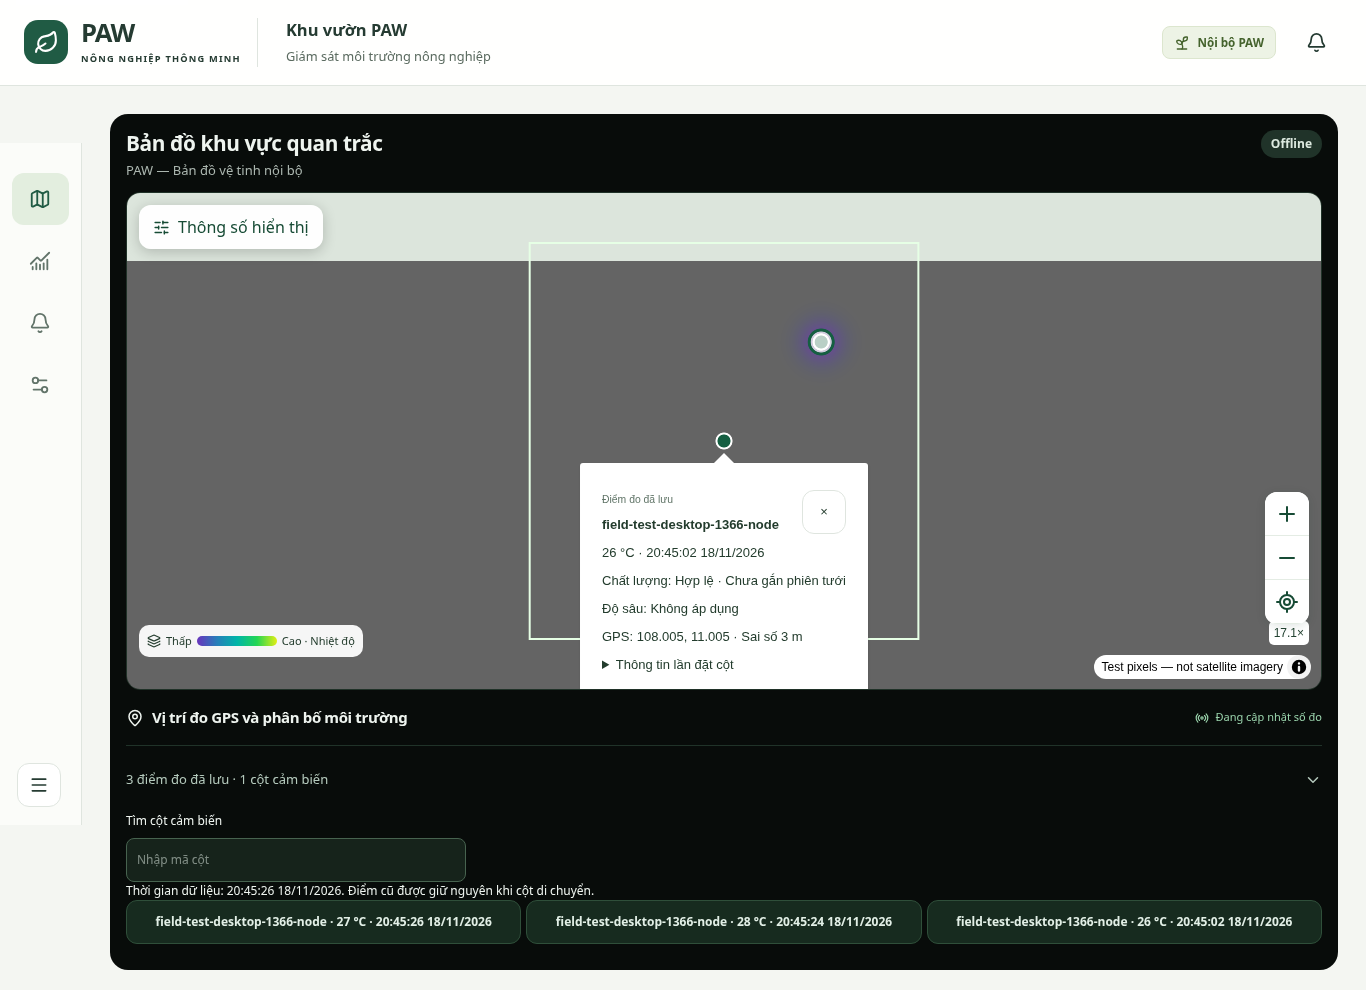
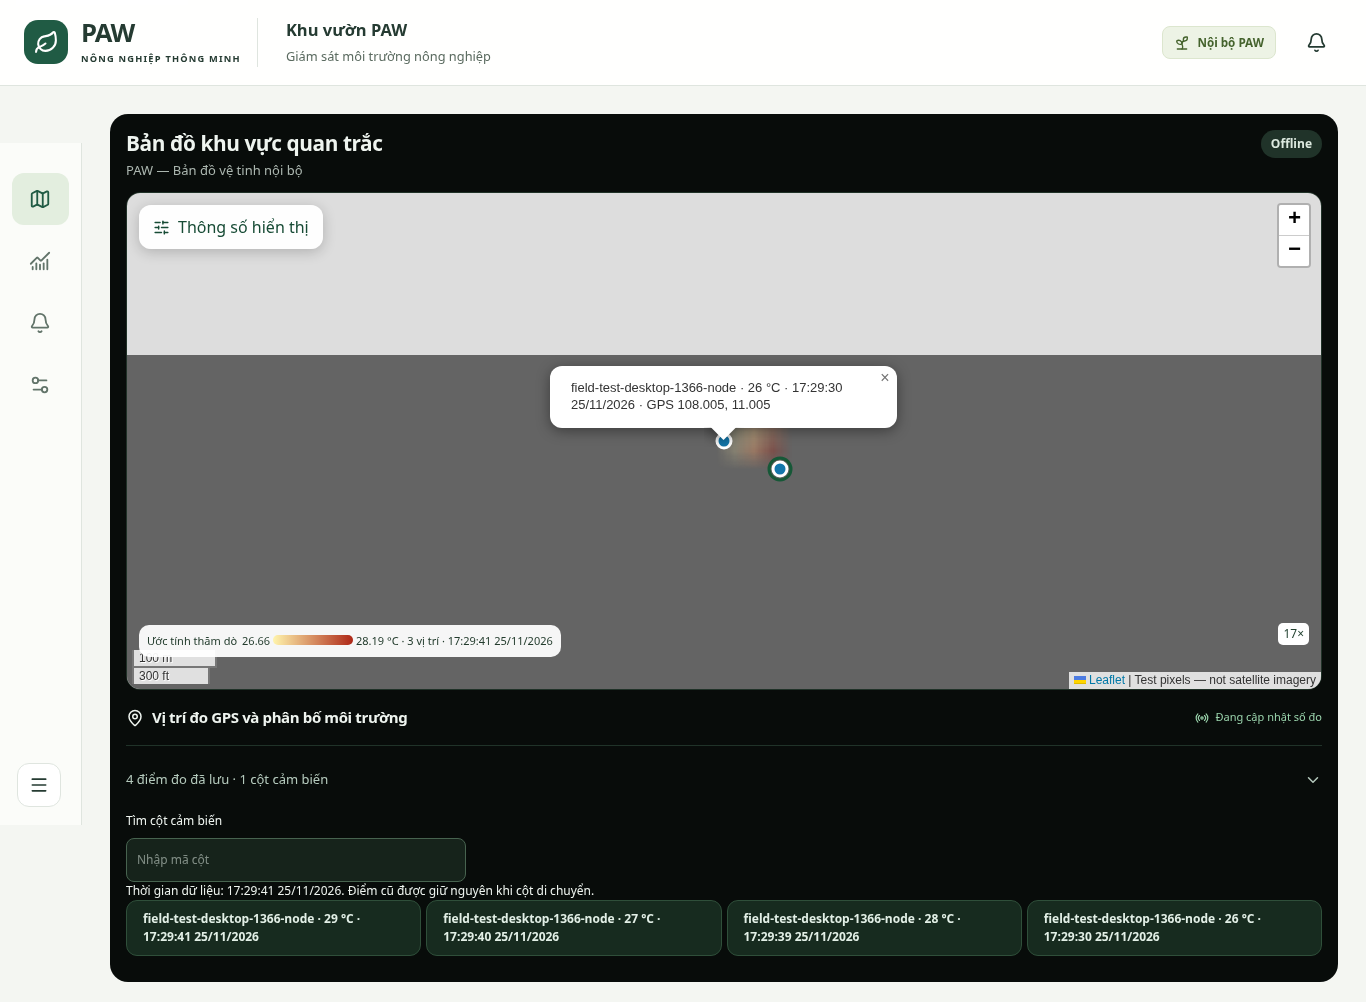
Document Windows upgrade, database diagnostics, ERD and measured verification results

diff --git a/docs/UPGRADE.md b/docs/UPGRADE.md
@@ -1,0 +1,203 @@
+# Bàn giao nhánh nâng cấp Leafmap và PostgreSQL
+
+Nhánh `upgrade/leafmap-spatial` dùng `e507e2f` làm mốc đối chiếu. Trước khi thử ở đồi chè, triển khai trên bản sao của database và nhập bộ ảnh đúng tọa độ, có giấy phép lưu nội bộ. Kết quả đo hiệu năng và số liệu khoa học dưới đây có nguồn khác nhau.
+
+## Luồng dữ liệu và thay đổi so với bản ban đầu
+
+| Thành phần | Hiện trạng kiểm tra tại mốc gốc | Hành vi trên nhánh này |
+|---|---|---|
+| Gateway | Ingest dùng Bearer theo farm, ACK theo gateway/event_id và hash nội dung. | Giữ giao thức, transaction và xác thực. Cho phép gửi NULL khi đầu dò lỗi và thêm chỉ tiêu bức xạ. |
+| PostgreSQL | GPS được lưu riêng theo thời gian, số đo tham chiếu lần cắm. Giá trị bắt buộc khác NULL. | Một migration nới ràng buộc value. Dùng lại quan hệ lần cắm để dựng lịch sử và tập nội suy. |
+| API đọc | Viewer bootstrap theo mạng/origin/farm. Snapshot/SSE và API lịch sử có sẵn. | Thêm GET /v1/farms/{farm_id}/leafmap và /surface. Cùng quyền viewer/operator theo farm, admin quản trị riêng. |
+| Bản đồ | React khởi tạo MapLibre/MapCN, xử lý heat layer ở phía trình duyệt. | FastAPI tạo tài liệu Leafmap. Một iframe cho mỗi màn hình bản đồ. React gửi dữ liệu qua postMessage có kiểm tra origin và cửa sổ. |
+| GIS | Tile PNG từ bộ MBTiles nội bộ, có trình nhập GeoTIFF. | Giữ quyền ảnh và tile API. JS/CSS/biểu tượng của renderer được phục vụ từ /map-assets. |
+| Tương tác | Lịch sử, cảnh báo, lựa chọn độ sâu, simulator và bootstrap không cần đăng nhập. | Giữ các luồng đang có. Phân biệt điểm cột hiện tại và dấu đo lịch sử, bật/tắt lớp ước tính. |
+| Khởi động | Launcher khởi động server và mở trình duyệt mà chưa chứng minh database sẵn sàng. | Kiểm tra cấu hình, frontend build, kết xuất Leafmap, kết nối và phiên bản schema. Mở bản đồ sau readiness và viewer-bootstrap. |
+
+```mermaid
+flowchart LR
+    Node["STM32 · Sensor · GPS"] --> LoRa --> Gateway -->|Bearer, event_id| API[FastAPI]
+    API --> PG[(PostgreSQL)]
+    PG --> Slice["Một lô · phiên · thông số · độ sâu"]
+    Slice --> QC["GPS, hiệu chuẩn, đơn vị, pha"]
+    QC --> Model["IDW / Ordinary Kriging"] --> Raster["Raster có bounds, NoData"]
+    PG -->|snapshot, SSE| React
+    Raster --> React
+    React -->|postMessage| Leafmap["Leafmap / Folium"]
+    Tiles["Ảnh MBTiles có giấy phép"] -->|tile nội bộ| Leafmap
+```
+
+**Chọn backend hiển thị.** Folium tạo tài liệu HTML và đối tượng bản đồ chạy độc lập trong trình duyệt, phù hợp FastAPI và SSE sẵn có. Backend ipyleaflet dùng widget/comm sẽ cần thêm runtime để đồng bộ Python và trình duyệt. Leafmap khởi tạo Folium một lần, ứng dụng chỉ truyền cập nhật layer. Leaflet 1.9.4 là renderer đi kèm tài liệu này. `leafmap` Python hiện kéo gói Python `maplibre` làm dependency bắc cầu. Không có MapLibre JS trong bundle React. [Leafmap](https://leafmap.org/) · [Mã nguồn foliumap](https://github.com/opengeos/leafmap/blob/master/leafmap/foliumap.py)
+
+## Cấu trúc PostgreSQL
+
+```mermaid
+erDiagram
+    FARMS ||--o{ PLOTS : contains
+    FARMS ||--o{ NODES : owns
+    NODES ||--o{ SENSORS : carries
+    NODES ||--o{ NODE_POSITIONS : reports
+    NODES ||--o{ NODE_DEPLOYMENTS : moves
+    NODE_POSITIONS ||--o{ NODE_DEPLOYMENTS : fixes
+    PLOTS o|--o{ NODE_DEPLOYMENTS : locates
+    FARMS ||--o{ MEASUREMENT_SESSIONS : schedules
+    PLOTS ||--o{ MEASUREMENT_SESSIONS : scopes
+    MEASUREMENT_SESSIONS o|--o{ MEASUREMENTS : groups
+    NODE_DEPLOYMENTS o|--o{ MEASUREMENTS : georeferences
+    FARMS ||--o{ MEASUREMENTS : owns
+    NODES ||--o{ MEASUREMENTS : reports
+    PLOTS o|--o{ MEASUREMENTS : locates
+    SENSORS ||--o{ MEASUREMENTS : measures
+    FARMS ||--o{ API_KEYS : grants
+    API_KEYS ||--o{ INGEST_BATCHES : authenticates
+    FARMS ||--o{ ALERTS : monitors
+    FARMS ||--o{ EVENTS : streams
+```
+
+Mỗi bảng có khóa chính. Một node có tối đa một active_node_id đang cắm, các lần cắm cũ có thời điểm kết thúc. Bảng positions kiểm tra giới hạn tọa độ và accuracy > 0. Cặp gateway_id/event_id là duy nhất. API xử lý số đo, sự kiện và ACK trong một transaction, gửi lại cùng payload nhận cùng ACK. Tọa độ lịch sử lấy qua deployment_id. Gateway được biểu diễn bằng khóa có role gateway. Ảnh ở tệp MBTiles, raster ước tính ở cache RAM theo dữ liệu đầu vào. Xem chi tiết cột, FK, check và index trong [models.py](../backend/app/models.py).
+
+**Python GIS và PostGIS.** Truy vấn hiện thu hẹp theo farm, lô, chỉ tiêu, độ sâu và thời gian trước khi chiếu tọa độ. Với hai cột và giới hạn mỗi phiên, Python/PyProj/Shapely đủ để tính khoảng cách mét và mask. PostGIS đáng thử nếu cần tìm lân cận qua nhiều lô hoặc tìm polygon chứa hàng triệu vị trí. Khi đó có thể dùng geometry SRID 4326, GiST, ST_Intersects/ST_Within và ST_DWithin trên geography hoặc geometry đã ST_Transform sang CRS mét. Kiểm tra đơn vị của ST_Distance trước khi so sánh. PostGIS đòi cài extension tương thích phiên bản PostgreSQL trên mỗi máy Windows và migration/index riêng. Chưa có benchmark A/B chứng minh lợi ích tại PAW nên phiên bản này dùng PostgreSQL thường.
+
+## Chẩn đoán và vận hành trên Windows
+
+Chạy cài đặt lần đầu theo [README](../README.md). Để cập nhật một máy đã cài, dừng launcher và monitor, sao lưu database bằng pg_dump định dạng custom, sao lưu .env và thư mục ảnh với quyền truy cập hạn chế. Thử pg_restore vào **database nghiệm thu riêng** trước khi tác động lên hệ thống thật. Trong bản checkout sạch, chạy:
+
+```powershell
+git fetch origin
+git switch upgrade/leafmap-spatial
+git pull --ff-only
+Set-Location frontend
+npm ci
+npm run build
+Set-Location ..\backend
+.\.venv\Scripts\python.exe -m pip install -r requirements-imagery.txt
+.\.venv\Scripts\python.exe -m alembic current
+.\.venv\Scripts\python.exe -m alembic upgrade head
+..\Start-PAW.cmd
+```
+
+Launcher đặt thư mục làm việc là backend. Cấu hình máy chủ sử dụng PAW_DATABASE_URL, PAW_ADMIN_TOKEN và viewer grant. Có thể đưa mật khẩu riêng vào PAW_DB_PASSWORD để SQLAlchemy tự mã hóa ký tự dành riêng. Chỉ quản trị viên và tài khoản chạy máy chủ được đọc .env. Khách LAN dùng URL được bàn giao. Khi chỉ thiếu viewer grant, launcher báo trạng thái và địa chỉ quản trị, server vẫn chạy để quản trị viên chuẩn bị farm. Khi mất Internet, các tài nguyên đã cài tiếp tục được cấp qua LAN. Khi mất cả LAN, trang giữ dữ liệu đã tải trong bộ nhớ đến khi kết nối lại. Tile chưa từng tải cần truy cập máy chủ.
+
+| Triệu chứng | Phân biệt nguyên nhân | Kiểm tra / hành động quản trị |
+|---|---|---|
+| /health 200, /ready 503 | Tiến trình FastAPI còn sống, DB hoặc schema chưa sẵn sàng | Get-Service *postgres*; Test-NetConnection 127.0.0.1 -Port 5432. Kiểm tra tên instance, cổng, cấu hình listen và log PostgreSQL. |
+| Mật khẩu sai / database sai | Đã tái hiện hai lỗi độc lập. psycopg có thể không cấp SQLSTATE lúc bắt tay. | Dùng psql -h HOST -p PORT -U USER -d DB -W với đúng tài khoản dịch vụ. Xác minh dbname, username và secret trước khi kiểm tra quy tắc pg_hba.conf theo thứ tự. |
+| /ready 503 sau đổi schema | Database trống hoặc revision chưa ở head. SQLSTATE 42501 khi thiếu quyền bảng. | So sánh alembic current và heads trong backend. Dùng role triển khai được DDL khi migration. Role ứng dụng cần CONNECT, USAGE schema, DML bảng và sequence tương ứng. |
+| /v1/viewer-bootstrap 403 | Viewer grant bị từ chối trước khi đọc farm | Đối chiếu IP thực tế, Host/origin gồm giao thức và cổng, PAW_VIEWER_NETWORKS, PAW_VIEWER_ORIGINS, PAW_VIEWER_FARM_ID. 401 ở endpoint bảo vệ thường do Bearer thiếu/hết quyền. |
+| Bootstrap trả 503 dù /ready 200 | Có quyền mạng nhưng farm chưa tồn tại hoặc source khác sensor | Kiểm tra farm đã bàn giao trong đúng database. |
+| Trình duyệt báo fetch/CORS hoặc 404 | Có thể do cấu hình origin hoặc URL frontend/backend | Dùng cùng origin khi triển khai. Kiểm tra URL/status ở Network, VITE_PAW_API_URL tại lúc build, route /v1 và dist/index.html. |
+| Pool timeout | Hết kết nối sẵn có trong thời gian chờ | Kiểm tra pg_stat_activity, transaction chờ khóa, idle in transaction và số process. Mặc định 4 kết nối thường + 2 overflow/process, chờ 8 s, recycle 1800 s, connect timeout 5 s và pre-ping. Tính cả process monitor, worker và kết nối quản trị trong max_connections. |
+| Không thấy ảnh / chỉ thấy điểm | Thiếu bộ ảnh, thiếu quyền sử dụng hoặc chưa đủ vị trí theo phiên | Kiểm tra catalog/active và bounds ảnh. Kiểm tra GPS, hiệu chuẩn, session_id, depth, thời gian và diện tích bao lồi. |
+
+Lỗi tạm thời lúc DB khởi động lại hoặc pool bận cho phép retry sau backoff. Gateway gửi lại cùng event_id và payload. Lỗi mật khẩu, quyền và phiên bản schema cần sửa cấu hình. Chưa nhận được traceback sản xuất hoặc log Windows của lần xảy ra lỗi ban đầu. Các trường hợp tái hiện trong bảng là phép thử độc lập.
+
+## Migration và khôi phục
+
+Revision `12dfcadb8600` sau `81793dd71919` chỉ cho phép NULL tại measurements.value. Khi ingest giá trị NULL, quality là invalid. Dữ liệu đã có vẫn giữ nguyên. Downgrade kiểm tra sự tồn tại của NULL trước khi khôi phục NOT NULL. Nếu đã có NULL, giữ database mới, sao lưu cả số đo mới, và diễn tập khôi phục bản sao trước nâng cấp trên database riêng để tránh mất phép đo. Chọn bản ứng dụng tương thích với schema đã nghiệm thu. Chưa chạy migration trên database của người dùng.
+
+## Kiểm thử và benchmark
+
+Thử trên Linux với Python 3.12, Chromium, PostgreSQL riêng và các database test dùng một lần. Không dùng khóa Gateway, ảnh vệ tinh hoặc số đo của trang trại.
+
+| Phép thử | Kết quả quan sát |
+|---|---|
+| Backend, gồm auth/scope, hồi quy ingest/ACK, transaction, alert, SSE/cursor, GPS, calibration, NULL và nội suy | 50 test đạt trên PostgreSQL; 50 test đạt trên SQLite fixture cách ly. Có cảnh báo deprecation từ Starlette TestClient/httpx. |
+| Launcher và static serving | Chạy scripts/launch.py trên Linux với PostgreSQL tạm đã migration, dist thật và viewer grant. /ready, /v1/viewer-bootstrap, /map, tài liệu Leafmap và imagery/active đều trả 200. Kiểm tra lockfile có wheel Windows x64 cho CPython 3.12 của NumPy, SciPy, Rasterio, PyProj, Pillow, Shapely và psycopg-binary. |
+| Alembic trên PostgreSQL | upgrade head, check, downgrade một revision và upgrade lại thành công trên database tạm. |
+| Fault injection PostgreSQL riêng | Sai mật khẩu, thiếu database, thiếu migration, thiếu SELECT và dừng service đều cho /ready 503. Sau restart, cùng app/pool trả 200. /health vẫn 200 khi DB dừng. Thiếu grant cho viewer trả 403. |
+| React | TypeScript, ESLint, 58 unit/integration test và Vite production build đạt. |
+| Playwright | 12 test điều hướng/simulator trên 4 viewport đạt. 4 ca Chromium tích hợp FastAPI trên desktop 1366 và mobile 360 đạt. |
+| Offline/GIS tích hợp | Chặn mọi origin ngoài máy chủ. Tải tile nội bộ, nhấn marker, tắt/bật lớp, chuyển offline/reconnect và khôi phục lịch sử. Đến vị trí thứ ba không thẳng hàng, raster xuất hiện với 3 vị trí. Cùng phần tử DOM bản đồ và mức zoom trước/sau cập nhật. Thiếu ảnh hiện đúng thông báo. |
+
+**SQL.** EXPLAIN (ANALYZE, BUFFERS) sau ANALYZE trên 20.000 số đo tổng hợp cùng plot/metric/depth. Đọc 100 dòng mới nhất theo observed_at DESC, id DESC dùng Index Scan Backward trên ix_measurement_plot_time, 9 shared buffer hits, planning 0,353 ms, execution 0,096 ms trong lần đo. Chưa đo tải nhiều gateway đồng thời hoặc SSE kéo dài. Chưa bổ sung index vì chưa có bằng chứng cần thiết từ tải thật.
+
+**Raster.** Đo thời gian bên trong engine với NumPy seed 548, một luồng BLAS, cùng lô 0,002° × 0,002°; ba lần bỏ cache cho mỗi kích thước. Dữ liệu tổng hợp chỉ dùng để đo chi phí tính toán.
+
+| Vị trí | Mô hình chọn trong fixture | Ba lần chạy (ms) | Cache hit (ms) |
+|---:|---|---|---:|
+| 3 | IDW p=2 | 26,2 / 2,3 / 1,6 | 0,007 |
+| 12 | IDW p=3 | 6,6 / 3,5 / 3,7 | 0,010 |
+| 24 | OK Gaussian | 1301 / 1998 / 1837 | 0,015 |
+| 48 | OK spherical | 265 / 182 / 197 | 0,020 |
+
+Ở 24 vị trí, mỗi ứng viên phải fit lại 24 lần. Ở 48 vị trí sử dụng bốn block, giảm số lần fit. Các thời gian chưa bao gồm mạng, truy vấn DB hoặc render của trình duyệt.
+
+## Phụ thuộc và danh mục thay đổi
+
+Frontend gỡ maplibre-gl, MapCN wrapper và lớp SVG cũ. Backend thêm Leafmap/Folium, SciPy, PyProj, Pillow, Rasterio, sử dụng NumPy và Shapely. Bản khóa đã kiểm tra gồm Leafmap 0.64.7, Folium 1.0.0, SciPy 1.18.1, PyProj 3.8.0 và Rasterio 1.5.2. Tệp JS/CSS, ảnh biểu tượng và giấy phép BSD của renderer được lưu trong backend/app/map_assets. Xem phiên bản chính xác trong backend/uv.lock và frontend/package-lock.json.
+
+Từ gốc repository, lệnh sau xuất danh sách đầy đủ file thêm (A), sửa (M), xóa (D) so với bản hợp nhất ban đầu, gồm migration, mã ứng dụng, assets, tests, dependency và tài liệu.
+
+```powershell
+git diff --name-status e507e2f..HEAD
+git log --oneline e507e2f..HEAD
+```
+
+## Nghiệm thu còn lại
+
+- Chạy Start-PAW.cmd trên máy Windows đích với tài khoản dịch vụ, PostgreSQL, ổ đĩa ảnh và firewall thực. Kiểm tra điện thoại vật lý và quyền viewer trong LAN.
+- Xác nhận ảnh thật có CRS, license, tọa độ và phạm vi khớp khu đồi. Chưa có bộ ảnh hoặc đường biên thực địa của người dùng.
+- Kiểm tra độ trễ STM32/LoRa, thời gian đồng bộ, độ sâu, định danh lần cắm và hiệu chuẩn bức xạ/độ ẩm. Thiết lập chu kỳ gửi từng node theo lịch thực tế để cảnh báo offline phù hợp khoảng nghỉ giữa các đợt.
+- Ghi lịch mưa/tưới, địa hình và vị trí tham chiếu đồng thời. Với hai cột đo các chỉ tiêu khác nhau, một đợt thường chỉ đủ hiện điểm. Cần thiết kế đo lặp trước khi gộp nhiều thời điểm hoặc đánh giá RK. Nhánh này giữ RK ở mức adapter nghiên cứu. Cần tập nghiệm thu vị trí/thời gian độc lập để công bố sai số hoặc độ phủ của khoảng dự báo. Chưa tự động hóa việc xác định biến đồng hành có ích từ ảnh thực địa.
+
+## Danh sách file của bản bàn giao
+
+```text
+M	README.md
+M	Start-PAW.cmd
+M	backend/.env.example
+M	backend/README.md
+M	backend/app/asgi.py
+M	backend/app/config.py
+M	backend/app/db.py
+M	backend/app/main.py
+A	backend/app/map_assets/LICENSE
+A	backend/app/map_assets/bridge.js
+A	backend/app/map_assets/images/layers-2x.png
+A	backend/app/map_assets/images/layers.png
+A	backend/app/map_assets/images/marker-icon-2x.png
+A	backend/app/map_assets/images/marker-icon.png
+A	backend/app/map_assets/images/marker-shadow.png
+A	backend/app/map_assets/leaflet.css
+A	backend/app/map_assets/leaflet.js
+A	backend/app/maps.py
+M	backend/app/models.py
+M	backend/app/monitor.py
+M	backend/app/responses.py
+M	backend/app/schemas.py
+M	backend/app/services.py
+A	backend/app/spatial.py
+M	backend/docs/openapi.json
+A	backend/migrations/versions/12dfcadb8600_nullable_readings.py
+M	backend/pyproject.toml
+M	backend/requirements-dev.txt
+M	backend/requirements-imagery.txt
+M	backend/requirements.txt
+A	backend/scripts/launch.py
+M	backend/tests/conftest.py
+M	backend/tests/offline_e2e_server.py
+A	backend/tests/test_spatial.py
+M	backend/uv.lock
+A	docs/UPGRADE.md
+A	docs/research/LITERATURE_REVIEW.md
+A	docs/research/METHOD_COMPARISON.md
+A	docs/research/REFERENCES.csv
+A	docs/research/SPATIAL_INTERPOLATION.md
+M	frontend/README.md
+M	frontend/docs/screenshots/enduser-map-test-desktop-1366.png
+M	frontend/docs/screenshots/enduser-map-test-mobile-360.png
+M	frontend/e2e-offline/field-offline.spec.ts
+M	frontend/package-lock.json
+M	frontend/package.json
+D	frontend/src/components/mapcn/LICENSE
+D	frontend/src/components/mapcn/Map.tsx
+D	frontend/src/components/mapcn/README.md
+D	frontend/src/components/mapcn/context.ts
+D	frontend/src/features/farm-map/HeatmapLayer.tsx
+M	frontend/src/features/field-map/FieldMap.tsx
+M	frontend/src/features/field-map/data.ts
+M	frontend/src/features/field-map/types.ts
+M	frontend/src/pages/FieldMapPage.tsx
+M	frontend/src/styles/global.css
+M	frontend/tests/field-map.test.tsx
+```

diff --git a/backend/README.md b/backend/README.md
@@ -6,7 +6,7 @@ Backend FastAPI + SQLAlchemy cho cột cảm biến có thể rút/cắm ở nhi
 
 ## Bản đồ GPS offline mới
 
-Đã bổ sung API điểm đo lịch sử, catalog/tile ảnh nội bộ và tùy chọn phục vụ Vite build. Xem [hướng dẫn MapLibre + MapCN + GeoTIFF offline](docs/OFFLINE_MAP.md). Chưa có ảnh vệ tinh được cung cấp để nhập vào máy chủ.
+Đã bổ sung API điểm đo lịch sử, catalog/tile ảnh nội bộ và tùy chọn phục vụ Vite build. Xem [quy trình nhập ảnh GeoTIFF offline](docs/OFFLINE_MAP.md). Chưa có ảnh vệ tinh được cung cấp để nhập vào máy chủ.
 
 ## Bản đồ người dùng thống nhất — 19/11/2026
 
@@ -17,11 +17,12 @@ Bản đồ tại `/map`; `/` và `/field-map` chuyển về cùng trang. Quản
 Cài Python **3.12 hoặc 3.13** từ python.org, chọn “Add Python to PATH”. Mở PowerShell trong thư mục muốn lưu dự án:
 
 ```powershell
-git clone https://github.com/khanhleviet2006/PAW-Backend.git
-Set-Location PAW-Backend
+git clone --branch upgrade/leafmap-spatial https://github.com/khanhleviet2006/PAW-app.git
+Set-Location PAW-app/backend
 py -3.12 -m venv .venv
 .\.venv\Scripts\python.exe -m pip install -r requirements-dev.txt
 .\.venv\Scripts\python.exe scripts/setup_env.py
+notepad .env
 .\.venv\Scripts\python.exe -m alembic upgrade head
 .\.venv\Scripts\python.exe -m uvicorn app.asgi:app --host 127.0.0.1 --port 8000
 ```
@@ -32,12 +33,12 @@ Không cần activate venv hoặc đổi ExecutionPolicy. Nếu dùng Python 3.1
 - Swagger: http://127.0.0.1:8000/docs.
 - Dừng server: `Ctrl+C`. Nếu cổng 8000 đang được dùng, chọn cổng khác và truyền `--base-url` tương ứng cho simulator.
 - `.env` được tạo **một lần** với khóa ngẫu nhiên; không commit/chia sẻ `.env` hoặc `*.secrets.json`.
-- Cách này dùng SQLite `paw.db` tại máy bạn. Chạy migration trước, API không tự tạo bảng hoặc tự seed dữ liệu.
+- Quản trị viên đặt URL PostgreSQL và quyền viewer trong .env theo [hướng dẫn triển khai](../README.md). Chạy migration trước, API không tự tạo bảng hoặc tự seed dữ liệu.
 
 Mở PowerShell thứ hai để lưu cảnh báo offline/quá hạn ngay cả khi không có gói tin mới:
 
 ```powershell
-Set-Location 'C:\duong-dan\PAW-Backend'
+Set-Location 'C:\duong-dan\PAW-app\backend'
 .\.venv\Scripts\python.exe -m app.monitor --interval 15
 ```
 
@@ -131,7 +132,7 @@ Linux/macOS: thay `.\.venv\Scripts\python.exe` bằng `.venv/bin/python`. Có `u
 
 ## Tình trạng tích hợp hiện hành
 
-Frontend có một màn hình `/map` dùng MapLibre + MapCN, đọc GPS/lịch sử/SSE và một bộ ảnh active từ backend. Hai đường dẫn `/` và `/field-map` chuyển về cùng màn hình. Quản trị viên cấu hình ảnh qua PAW_ACTIVE_IMAGERY_IDS; người dùng không có công cụ nhập hoặc đổi nền.
+Frontend có một màn hình `/map` dùng Leafmap, đọc GPS/lịch sử/SSE và một bộ ảnh active từ backend. Hai đường dẫn `/` và `/field-map` chuyển về cùng màn hình. Quản trị viên cấu hình ảnh qua PAW_ACTIVE_IMAGERY_IDS; người dùng không có công cụ nhập hoặc đổi nền.
 
 Giữ nguyên domain, dữ liệu, ingest/ACK và các chức năng history/alerts/simulator hiện có. Chưa có ảnh vệ tinh khu đất hoặc thiết bị thật để nghiệm thu ngoài thực địa. Backend chạy trực tiếp bằng Python và kết nối PostgreSQL sẵn có; cập nhật này không yêu cầu Docker/WSL hay migration mới. Xem docs/USER_MAP_UPDATE.md để thay file cục bộ có backup, không dùng GitHub.
 

diff --git a/frontend/README.md b/frontend/README.md
@@ -2,7 +2,7 @@
 
 # PAW — Giám sát môi trường trước tưới
 
-**Bản đồ người dùng hiện hành: `/map`.** `/` và `/field-map` chuyển về cùng màn hình này. Chỉ dùng MapLibre GL JS + MapCN và một bộ ảnh vệ tinh được lưu tại máy chủ PAW. Không còn engine Google, Leaflet hoặc sơ đồ giả trong giao diện/bundle.
+**Bản đồ người dùng hiện hành: `/map`.** `/` và `/field-map` chuyển về cùng màn hình này. FastAPI tạo tài liệu Leafmap qua backend Folium. Trình duyệt nạp bộ ảnh vệ tinh nội bộ và các lớp GPS, raster theo phiên. Xem [hướng dẫn bản hiện tại](../README.md).
 
 Khi thiếu ảnh hiển thị đúng: **“Chưa cài đặt dữ liệu ảnh vệ tinh khu vực”**. Không có ảnh khu đất thật được cung cấp trong repository. Người quản trị nhập GeoTIFF/MBTiles và chọn bộ ảnh trong cấu hình backend; người dùng chỉ xem số đo/GPS/heatmap.
 
